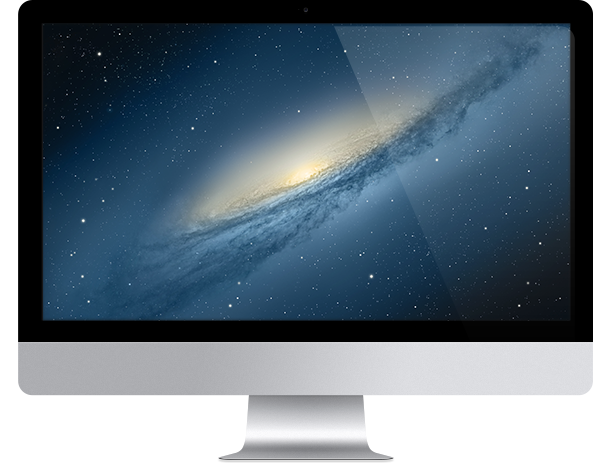
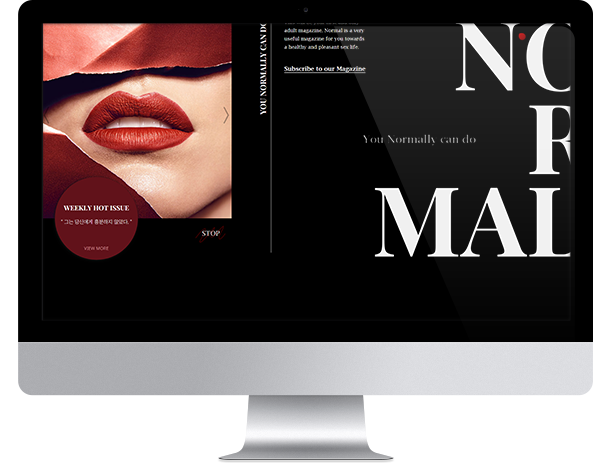
포트폴리오 수정
디테일 수정

diff --git a/index.html b/index.html
@@ -140,6 +140,7 @@
                     <div class="right">
                         <div class="mockup">
                             <img src="images/main/normal_mockup.png" alt="사이트이미지">
+                            <div class="main_page"><img src="images/main/normal_mainP.jpg" alt="노멀사이트"></div>
                         </div>
                     </div>
                 </div>
@@ -156,6 +157,7 @@
                     
                     <div class="left">
                         <img src="images/main/mobile.png" alt="모바일이미지">
+                        <div class="mobile_page"><img src="images/main/mobile_page.jpg" alt="모바일 메인홈 이미지"></div>
                     </div>
                         
                     <div class="right">
@@ -166,7 +168,8 @@
                             <h4 class="name">국립극단 모바일 디자인 리뉴얼</h4>
                             <strong>‘공연’에 대한 정보를 보기 쉽고 편리하게</strong>
                             <p class="explan">영화관 어플처럼 예매하기 쉽고, 사람들이 이용하기에 편리한 디자인을<br>
-                            만들어 보고자 국립극단 모바일 사이트를 리뉴얼 하게 되었습니다.</p>
+                            만들어 보고자 국립극단 모바일 사이트를 
+                            리뉴얼 하게 되었습니다.</p>
                             <ul class="check">
                                 <li>메인페이지 / 공연정보페이지를 디자인했습니다.</li>
                                 <li>기존의 사이트를 해치지 않고 미니멀하게 리뉴얼 했습니다.</li>
@@ -189,21 +192,21 @@
                        
                         <div class="banner_cnt clearfix">
                             <div>
-                                <button class="open_btn" type="button" data-href="#modal1" aria-haspopup="dialog" title="대화상자"><img src="images/main/banner01.jpg" alt="플라워이벤트 배너"></button>
-                            </div>
-                            <div>
                                 <button class="open_btn" type="button" data-href="#modal2" aria-haspopup="dialog"
                                     title="대화상자"><img src="images/main/banner02.jpg" alt="버거이벤트 배너""></button>
                             </div>
                             <div>
-                                <button class="open_btn" type="button" data-href="#modal3" aria-haspopup="dialog"
-                                    title="대화상자"><img src="images/main/banner03.jpg" alt="오가닉이벤트 배너"></button>
+                                <button class="open_btn" type="button" data-href="#modal4" aria-haspopup="dialog" title="대화상자"><img
+                                        src="images/main/banner04.jpg" alt="헤어이벤트 배너"></button>
                             </div>
                             <div>
-                                <button class="open_btn" type="button" data-href="#modal4" aria-haspopup="dialog"
-                                    title="대화상자"><img src="images/main/banner03.jpg" alt="미정"></button>
+                                <button class="open_btn" type="button" data-href="#modal1" aria-haspopup="dialog" title="대화상자"><img src="images/main/banner01.jpg" alt="플라워이벤트 배너"></button>
                             </div>
-                           
+
+                            <div>
+                                <button class="open_btn" type="button" data-href="#modal3" aria-haspopup="dialog"
+                                    title="대화상자"><img src="images/main/banner03.jpg" alt="오가닉이벤트 배너"></button>
+                            </div>                       
                         </div>
                         
                         
@@ -216,18 +219,27 @@
         </div>
     </div>
     <!-- 모달열기를 클릭하면 보여질 상세 모달 컨텐츠 -->
-    <div id="modal1" class="modal_cnt" role="dialog" aria-modal="true" aria-labelledby="tit1">
-        <div class="md_area">
-            <h5 id="tit2">Flower Shop Event Banner</h5>
-            <img src="images/main/flower_ban.jpg" alt="꽃집 원데이클래스 배너">
-            <button class="close_btn" type="button" data-link="last">닫기</button>
-        </div>
-    </div>
 
     <div id="modal2" class="modal_cnt" role="dialog" aria-modal="true" aria-labelledby="tit2">
         <div class="md_area">
             <h5 id="tit2">BURGER SALE Event Banner</h5>
             <img src="images/main/burger_ban.jpg" alt="버거할인 이벤트 배너">
+            <button class="close_btn" type="button" data-link="last">닫기</button>
+        </div>
+    </div>
+
+    <div id="modal4" class="modal_cnt" role="dialog" aria-modal="true" aria-labelledby="tit3">
+       <div class="md_area">
+           <h5 id="tit2">Hair Shop Event Banner</h5>
+           <img src="images/main/hair_ban.jpg" alt="헤어샵 이벤트 배너">
+           <button class="close_btn" type="button" data-link="last">닫기</button>
+       </div>
+    </div>
+
+    <div id="modal1" class="modal_cnt" role="dialog" aria-modal="true" aria-labelledby="tit1">
+        <div class="md_area">
+            <h5 id="tit2">Flower Shop Event Banner</h5>
+            <img src="images/main/flower_ban.jpg" alt="꽃집 원데이클래스 배너">
             <button class="close_btn" type="button" data-link="last">닫기</button>
         </div>
     </div>
@@ -240,13 +252,6 @@
         </div>
     </div>
 
-    <div id="modal4" class="modal_cnt" role="dialog" aria-modal="true" aria-labelledby="tit3">
-       <div class="md_area">
-           <h5 id="tit2">Flower Shop Event Banner</h5>
-           <img src="images/main/burger_ban.jpg" alt="">
-           <button class="close_btn" type="button" data-link="last">닫기</button>
-       </div>
-    </div>
 </body>
 
 </html>

diff --git a/css/main.css b/css/main.css
@@ -111,7 +111,15 @@ span.dot{display: inline-block; margin-left: -8px; color: #73acb6;}
 
 #cnt3 .right{position: relative;}
 #cnt3 .right .mockup{background: url('../images/main/normal_mockup.png')no-repeat; position: absolute; top: 180px;}
+#cnt3 .right .mockup .main_page{background: #000; width: 401px; height: 224px; position: absolute; top:152px; left: 32px; overflow: hidden;}
+#cnt3 .right .mockup .main_page img{position: absolute; top: 0; left: 0;}
+#cnt3 .right .mockup .main_page img{animation: normalmove 6s infinite alternate;}
 
+@keyframes normalmove {
+  0%{top: 0;}
+  10%{top: 0;}
+  100%{top: -1119px;}
+}
 
 
 /*본문 cnt4*/
@@ -120,6 +128,17 @@ span.dot{display: inline-block; margin-left: -8px; color: #73acb6;}
 #cnt4 .cnt_tit::before{left: 0;}
 #cnt4 .cnt_tit::after{right: 0;}
 #cnt4 .sub_tit {color: #676767;}
+
+#cnt4 .left .mobile_page{width: 230px; height: 471px; background: blue; position: absolute; top: 230px; left: 268.5px; border-radius: 18px/16px; overflow: hidden;}
+#cnt4 .left .mobile_page img{position: absolute; top: 0; left: 0;}
+#cnt4 .left .mobile_page img{animation: mobilemove 4s infinite alternate;}
+
+@keyframes mobilemove {
+    0%{top: 0;}
+  8%{top: 0;}
+  100%{top: -527px;}
+}
+
 
 #cnt4 .right {text-align: left;}
 #cnt4 .right .txt_deco{position: absolute; top: 180px; right: 0px; background: url('../images/main/cnt04_deco.png')no-repeat; width: 914px; height: 91px; 
